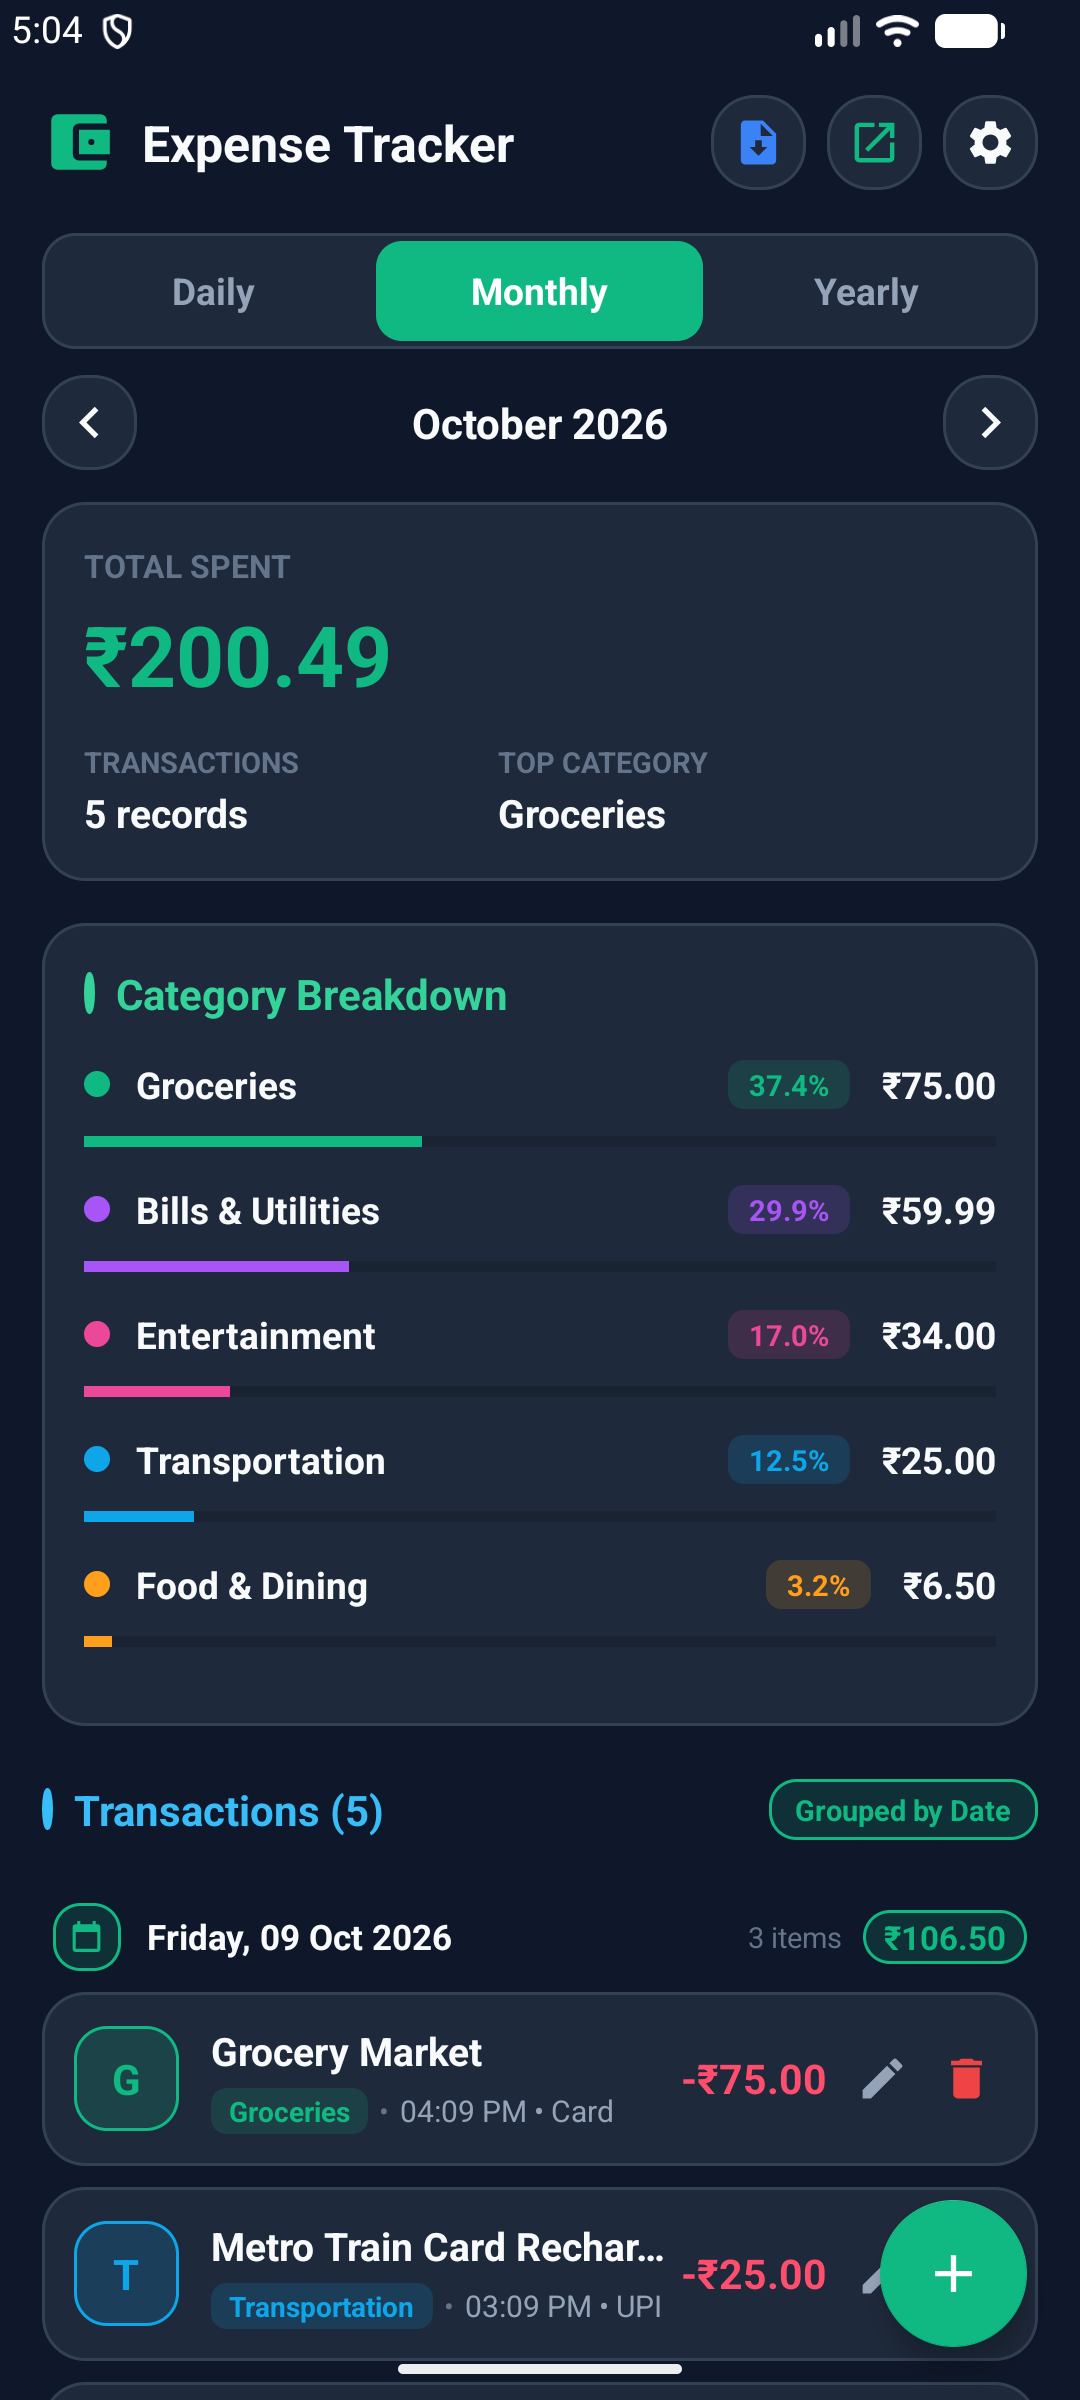
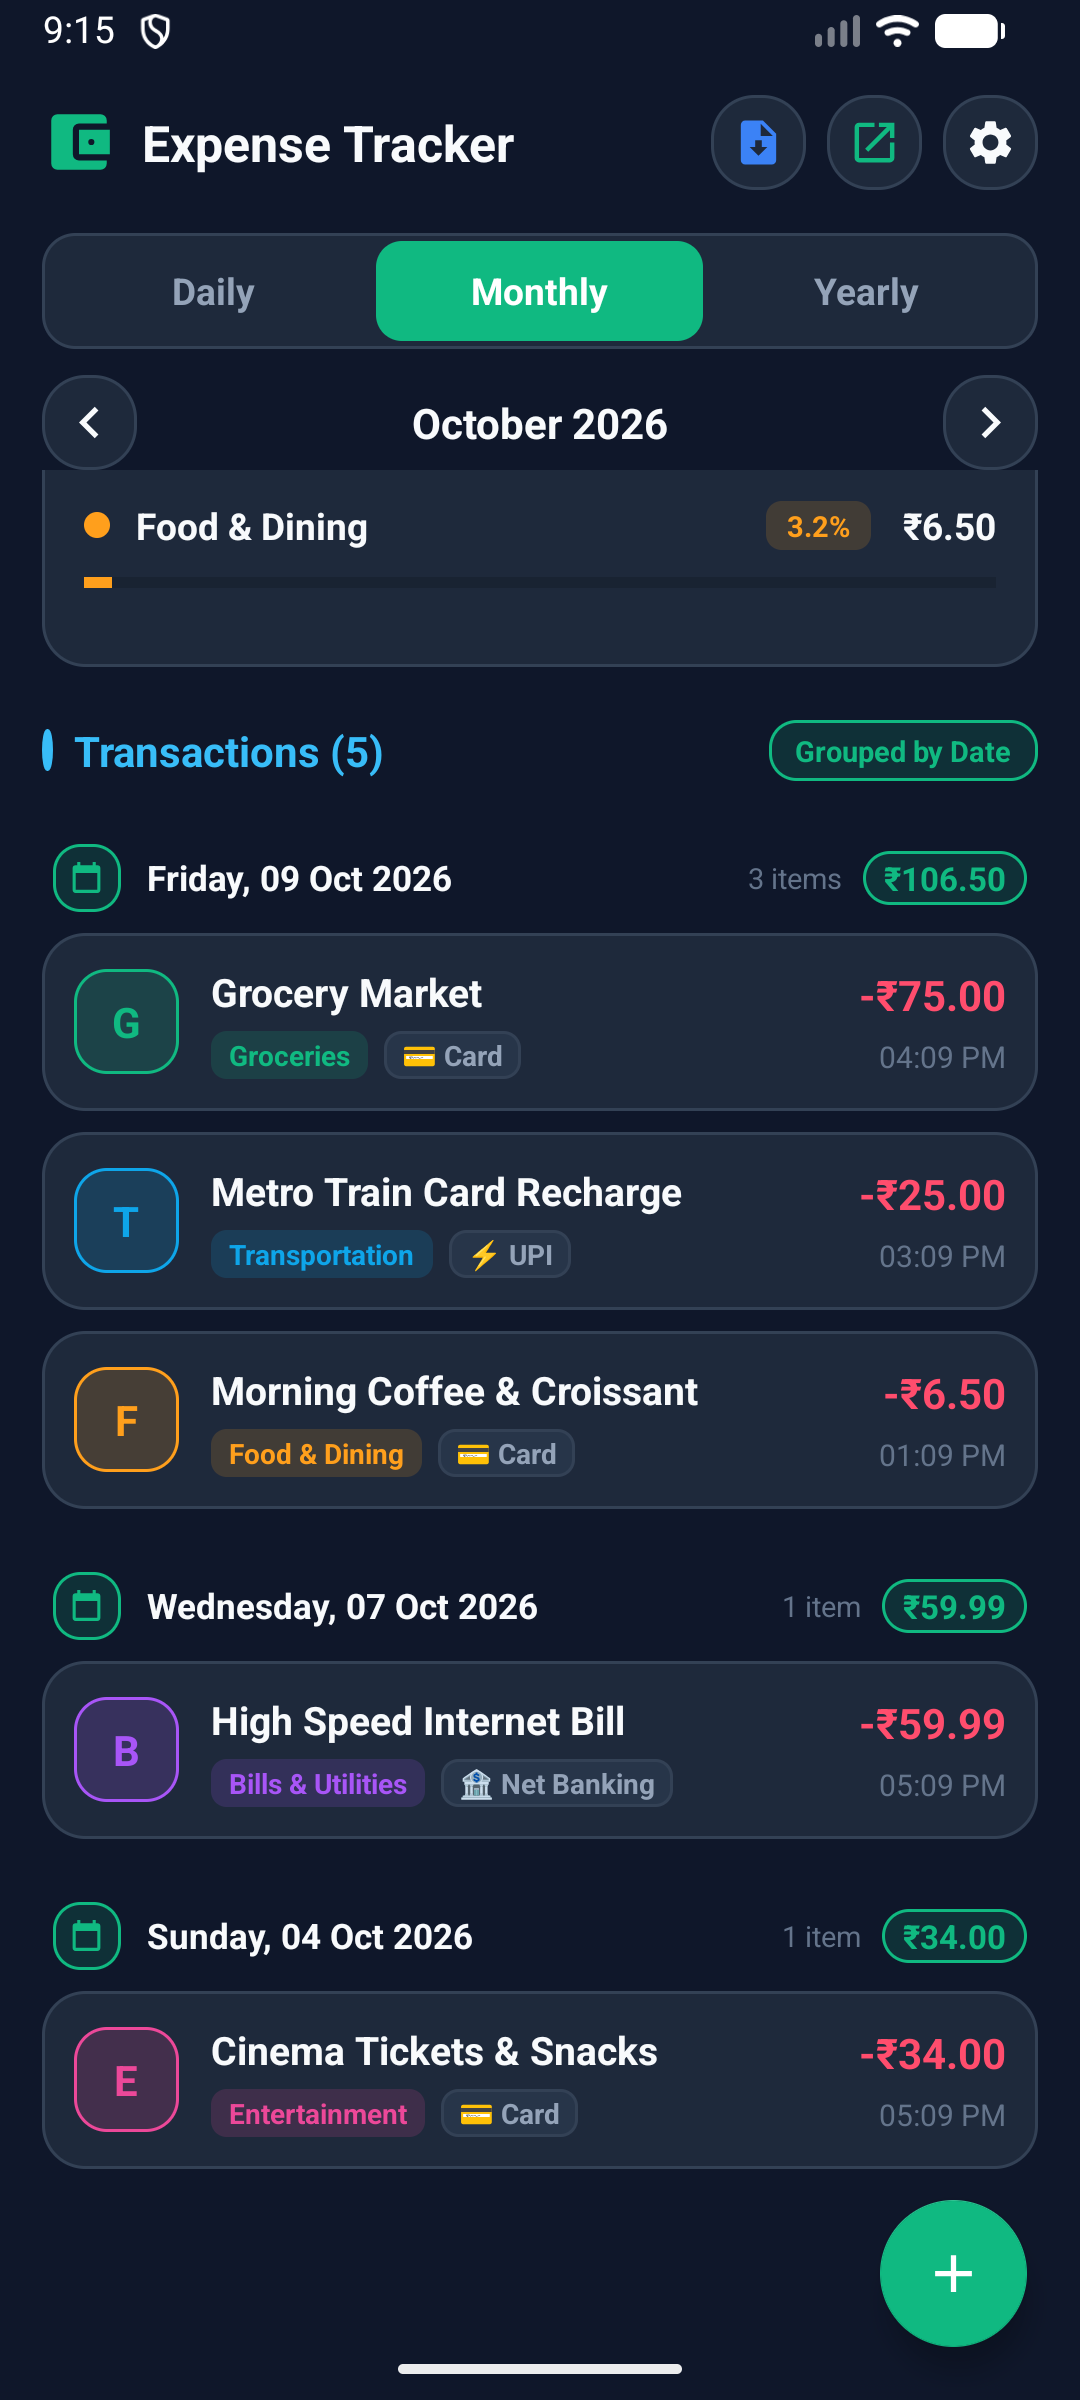
feat: improve transaction card layout with left-aligned category & payment pills and right-justified financials

diff --git a/app/src/main/java/com/expensetracker/app/ExpenseAdapter.kt b/app/src/main/java/com/expensetracker/app/ExpenseAdapter.kt
@@ -133,13 +133,12 @@ class ExpenseAdapter(
             val context = binding.root.context
             binding.tvExpenseTitle.text = expense.title
             binding.tvExpenseCategory.text = expense.category
+            binding.tvExpensePaymentMethod.text = getPaymentMethodWithIcon(expense.paymentMethod)
 
             if (item.isGrouped) {
-                val timeStr = timeFormat.format(Date(expense.date))
-                binding.tvExpenseDatePayment.text = "$timeStr • ${expense.paymentMethod}"
+                binding.tvExpenseDate.text = timeFormat.format(Date(expense.date))
             } else {
-                val dateStr = fullDateFormat.format(Date(expense.date))
-                binding.tvExpenseDatePayment.text = "$dateStr • ${expense.paymentMethod}"
+                binding.tvExpenseDate.text = fullDateFormat.format(Date(expense.date))
             }
 
             binding.tvExpenseAmount.text = String.format(Locale.US, "-%s%.2f", currencySymbol, expense.amount)
@@ -170,12 +169,9 @@ class ExpenseAdapter(
                 onEditClick(expense)
             }
 
-            binding.btnEditExpense.setOnClickListener {
-                onEditClick(expense)
-            }
-
-            binding.btnDeleteExpense.setOnClickListener {
+            binding.root.setOnLongClickListener {
                 onDeleteClick(expense)
+                true
             }
         }
     }
@@ -218,6 +214,19 @@ class ExpenseAdapter(
                 lower.contains("shop") -> "S"
                 clean.isNotEmpty() -> clean.first().uppercase()
                 else -> "•"
+            }
+        }
+
+        fun getPaymentMethodWithIcon(method: String): String {
+            val clean = method.trim()
+            val lower = clean.lowercase(Locale.ROOT)
+            return when {
+                lower.contains("card") -> "💳 $clean"
+                lower.contains("upi") -> "⚡ $clean"
+                lower.contains("cash") -> "💵 $clean"
+                lower.contains("net") || lower.contains("bank") -> "🏦 $clean"
+                clean.isNotEmpty() -> clean
+                else -> "Card"
             }
         }
     }

diff --git a/app/src/main/java/com/expensetracker/app/MainActivity.kt b/app/src/main/java/com/expensetracker/app/MainActivity.kt
@@ -542,6 +542,14 @@ class MainActivity : AppCompatActivity() {
 
             val payPos = paymentMethods.indexOf(existingExpense.paymentMethod)
             if (payPos >= 0) dialogBinding.spinnerPaymentMethod.setSelection(payPos)
+
+            dialogBinding.btnDeleteExpenseDialog.visibility = android.view.View.VISIBLE
+            dialogBinding.btnDeleteExpenseDialog.setOnClickListener {
+                dialog.dismiss()
+                confirmDeleteExpense(existingExpense)
+            }
+        } else {
+            dialogBinding.btnDeleteExpenseDialog.visibility = android.view.View.GONE
         }
 
         dialogBinding.btnCancelExpense.setOnClickListener {

diff --git a/README.md b/README.md
@@ -6,13 +6,13 @@ A modern, offline-first personal finance Android application built in **Kotlin**
 
 ## 📱 App Snapshots & Visual Tour
 
-| Daily View (Vivid Headers) | Monthly Dashboard (Eye-Catching Categories & Transactions) | Month-wise Spending (Yearly Rainbow View & Top Month) |
+| Daily View (Clean Dual-Column Transactions) | Monthly Dashboard (Right-Justified Financials) | Yearly View (Itemized Transactions) |
 | :---: | :---: | :---: |
-| <img src="screenshots/daily_view.png" width="270" alt="Daily View with Vivid Category Breakdown and Transactions Headers" /> | <img src="screenshots/expense_main.png" width="270" alt="Main Dashboard with Eye-Catching Category Breakdown and Transactions" /> | <img src="screenshots/monthly_spending_yearly_scrolled.png" width="270" alt="Month-wise Spending with Dynamic Colors and Top Spent Highlight" /> |
+| <img src="screenshots/daily_view.png" width="270" alt="Daily View with Clean Category and Payment Pills and Right-Justified Amounts" /> | <img src="screenshots/expense_main.png" width="270" alt="Main Dashboard with Eye-Catching Category Breakdown and Transactions" /> | <img src="screenshots/yearly_view_transactions.png" width="270" alt="Yearly View Itemized Transactions with Right-Justified Amounts and Clean Date/Payment Pills" /> |
 
-| Currency & Display Settings | Unified Export Menu | Add / Edit Expense Dialog |
+| Edit Expense (with Delete Action) | Month-wise Spending (Yearly Rainbow View) | Currency & Display Settings |
 | :---: | :---: | :---: |
-| <img src="screenshots/settings_currency.png" width="270" alt="Settings Dialog with Dollar and Rupee options" /> | <img src="screenshots/export_menu.png" width="270" alt="Export Popup Menu offering PDF and Excel" /> | <img src="screenshots/add_expense_dialog.png" width="270" alt="Add Expense Modal Dialog" /> |
+| <img src="screenshots/edit_expense_dialog.png" width="270" alt="Edit Expense Dialog with Delete option" /> | <img src="screenshots/monthly_spending_yearly_scrolled.png" width="270" alt="Month-wise Spending with Dynamic Colors and Top Spent Highlight" /> | <img src="screenshots/settings_currency.png" width="270" alt="Settings Dialog with Dollar and Rupee options" /> |
 
 ---
 
@@ -30,10 +30,11 @@ A modern, offline-first personal finance Android application built in **Kotlin**
   - Automatic `★ TOP SPENT` gold crown highlight for the highest-expenditure month of the year.
   - Matching progress bars and interactive tap-to-drill-down month navigation.
 - **Modern Transactions Section**:
-  - 40×40dp squircle category avatars with 18% opacity tinted backgrounds, vibrant colored borders, and bold category initials (`G`, `T`, `F`, `B`, `E`).
-  - Color-matched category pill badges (`[ Groceries ]`, `[ Transportation ]`, etc.).
-  - High-visibility amount styling in vibrant rose-red (`-₹75.00`).
-  - Elegant date headers with calendar badges and daily spending total pills.
+  - **Clean Dual-Column Layout**: Category pill badges (`[ Groceries ]`, `[ Transportation ]`, etc.) and payment method badges (`[ 💳 Card ]`, `[ ⚡ UPI ]`, `[ 💵 Cash ]`, `[ 🏦 Net Banking ]`) neatly aligned side-by-side on the left side under the title.
+  - **Flush Right-Justified Financials**: Expense amounts (`-₹75.00`, `-₹25.00`) are bold and right-justified against the card edge, with cleanly formatted date/time stamps directly underneath.
+  - **Uncluttered & Intuitive Actions**: Tapping any transaction opens the Edit Expense dialog (featuring a dedicated "Delete" action button), and long-pressing opens an instant confirmation to delete.
+  - **40×40dp Squircle Avatars**: 18% opacity tinted backgrounds, vibrant category borders, and bold category initials (`G`, `T`, `F`, `B`, `E`).
+  - **Elegant Date Headers**: Daily spending total badges and transaction counts.
 
 ### 2. 💱 Multi-Currency Support (Dollar `$` & Rupee `₹`)
 - Switch anytime between **US Dollar (`$`)** and **Indian Rupee (`₹`)** in **Settings**.
